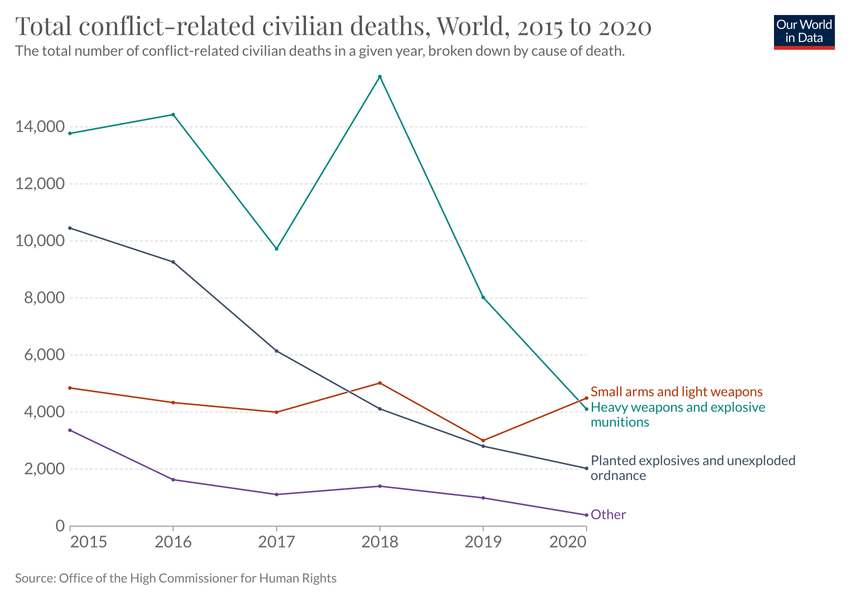
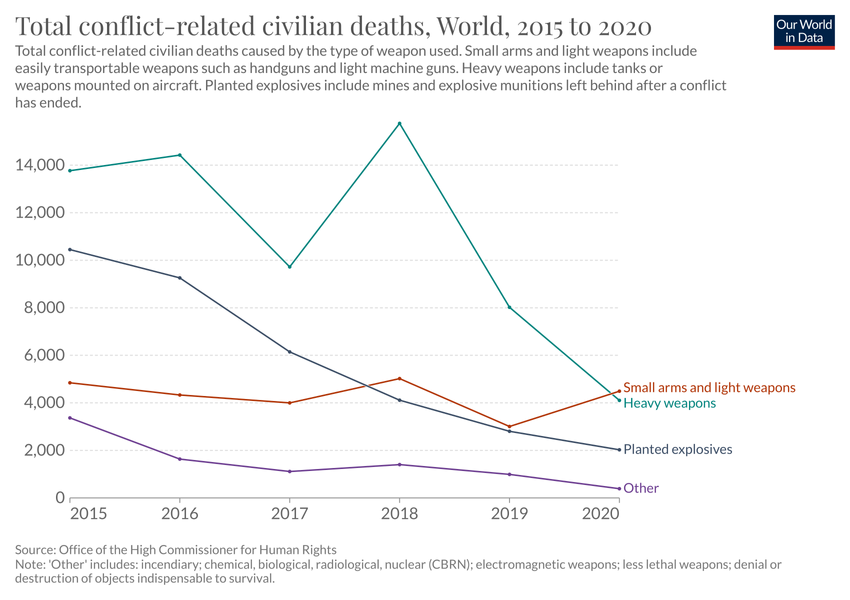
Deploy 2022-02-24T13:17:09.652Z Updating chart total-conflict-related-civilian-deaths

diff --git a/grapher/total-conflict-related-civilian-deaths.html b/grapher/total-conflict-related-civilian-deaths.html
@@ -1,6 +1,6 @@
-<!doctype html><html><head><meta name="viewport" content="width=device-width, initial-scale=1"/><title>Total conflict-related civilian deaths - Our World in Data</title><meta name="description" content="The total number of conflict-related civilian deaths in a given year, broken down by cause of death."/><link rel="canonical" href="https://ourworldindata.org/grapher/total-conflict-related-civilian-deaths"/><link rel="alternate" type="application/atom+xml" href="/atom.xml"/><link rel="apple-touch-icon" sizes="180x180" href="/apple-touch-icon.png"/><meta property="fb:app_id" content="1149943818390250"/><meta property="og:url" content="https://ourworldindata.org/grapher/total-conflict-related-civilian-deaths"/><meta property="og:title" content="Total conflict-related civilian deaths"/><meta property="og:description" content="The total number of conflict-related civilian deaths in a given year, broken down by cause of death."/><meta property="og:image" content="https://ourworldindata.org/default-grapher-thumbnail.png"/><meta property="og:site_name" content="Our World in Data"/><meta name="twitter:card" content="summary_large_image"/><meta name="twitter:site" content="@OurWorldInData"/><meta name="twitter:creator" content="@OurWorldInData"/><meta name="twitter:title" content="Total conflict-related civilian deaths"/><meta name="twitter:description" content="The total number of conflict-related civilian deaths in a given year, broken down by cause of death."/><meta name="twitter:image" content="https://ourworldindata.org/default-grapher-thumbnail.png"/><link href="https://fonts.googleapis.com/css?family=Lato:300,400,400i,700,700i|Playfair+Display:400,700&amp;display=swap" rel="stylesheet"/><link rel="stylesheet" href="https://ourworldindata.org/assets/commons.css"/><link rel="stylesheet" href="https://ourworldindata.org/assets/owid.css"/><meta property="og:image:width" content="1200"/><meta property="og:image:height" content="628"/><script>if (window != window.top) document.documentElement.classList.add('IsInIframe')</script><noscript><style>
+<!doctype html><html><head><meta name="viewport" content="width=device-width, initial-scale=1"/><title>Total conflict-related civilian deaths - Our World in Data</title><meta name="description" content="Total conflict-related civilian deaths caused by the type of weapon used. Small arms and light weapons include easily transportable weapons such as handguns and light machine guns. Heavy weapons include tanks or weapons mounted on aircraft. Planted explosives include mines and explosive munitions left behind after a conflict has ended."/><link rel="canonical" href="https://ourworldindata.org/grapher/total-conflict-related-civilian-deaths"/><link rel="alternate" type="application/atom+xml" href="/atom.xml"/><link rel="apple-touch-icon" sizes="180x180" href="/apple-touch-icon.png"/><meta property="fb:app_id" content="1149943818390250"/><meta property="og:url" content="https://ourworldindata.org/grapher/total-conflict-related-civilian-deaths"/><meta property="og:title" content="Total conflict-related civilian deaths"/><meta property="og:description" content="Total conflict-related civilian deaths caused by the type of weapon used. Small arms and light weapons include easily transportable weapons such as handguns and light machine guns. Heavy weapons include tanks or weapons mounted on aircraft. Planted explosives include mines and explosive munitions left behind after a conflict has ended."/><meta property="og:image" content="https://ourworldindata.org/default-grapher-thumbnail.png"/><meta property="og:site_name" content="Our World in Data"/><meta name="twitter:card" content="summary_large_image"/><meta name="twitter:site" content="@OurWorldInData"/><meta name="twitter:creator" content="@OurWorldInData"/><meta name="twitter:title" content="Total conflict-related civilian deaths"/><meta name="twitter:description" content="Total conflict-related civilian deaths caused by the type of weapon used. Small arms and light weapons include easily transportable weapons such as handguns and light machine guns. Heavy weapons include tanks or weapons mounted on aircraft. Planted explosives include mines and explosive munitions left behind after a conflict has ended."/><meta name="twitter:image" content="https://ourworldindata.org/default-grapher-thumbnail.png"/><link href="https://fonts.googleapis.com/css?family=Lato:300,400,400i,700,700i|Playfair+Display:400,700&amp;display=swap" rel="stylesheet"/><link rel="stylesheet" href="https://ourworldindata.org/assets/commons.css"/><link rel="stylesheet" href="https://ourworldindata.org/assets/owid.css"/><meta property="og:image:width" content="1200"/><meta property="og:image:height" content="628"/><script>if (window != window.top) document.documentElement.classList.add('IsInIframe')</script><noscript><style>
                     figure { display: none !important; }
-                </style></noscript><link rel="preload" href="/grapher/data/variables/312584[phone redacted][phone redacted][phone redacted].json?v=5" as="fetch" crossorigin="anonymous"/></head><body class="StandaloneGrapherOrExplorerPage"><header class="site-header"><div class="wrapper site-navigation-bar"><div class="site-logo"><a href="/">Our World<br/> in Data</a></div><nav class="site-navigation"><div class="topics-button-wrapper"><a href="/#entries" class="topics-button"><div class="label">Articles <br/><strong>by topic</strong></div><div class="icon"><svg width="12" height="6"><path d="M0,0 L12,0 L6,6 Z" fill="currentColor"></path></svg></div></a></div><div><div class="site-primary-navigation"><form class="HeaderSearch" action="/search" method="GET"><input type="search" name="q" placeholder="Search..."/><div class="icon"><svg aria-hidden="true" focusable="false" data-prefix="fas" data-icon="search" class="svg-inline--fa fa-search fa-w-16 " role="img" xmlns="http://www.w3.org/2000/svg" viewBox="[phone redacted]"><path fill="currentColor" d="M505 442.7L405.3 343c-[phone redacted]-7H372c27.[phone redacted]-128C416 [phone redacted] 0S0 93.1 0 208s93.[phone redacted] 208c48.[phone redacted]-44v16.3c0 [phone redacted] 17l99.7 99.7c9.[phone redacted] 0l28.3-28.3c9.[phone redacted]-34zM208 336c-[phone redacted]-[phone redacted] [phone redacted].[phone redacted] 128-128 128z"></path></svg></div></form><ul class="site-primary-links"><li><a href="/blog" data-track-note="header-navigation">Latest</a></li><li><a href="/about" data-track-note="header-navigation">About</a></li><li><a href="/donate" data-track-note="header-navigation">Donate</a></li></ul></div><div class="site-secondary-navigation"><ul class="site-secondary-links"><li><a href="/charts" data-track-note="header-navigation">All charts</a></li><li><a href="https://sdg-tracker.org" data-track-note="header-navigation">Sustainable Development Goals Tracker</a></li></ul></div></div></nav><div class="header-logos-wrapper"><a href="https://www.oxfordmartin.ox.ac.uk/global-development" class="oxford-logo"><img src="https://ourworldindata.org/oms-logo.svg" alt="Oxford Martin School logo"/></a><a href="https://global-change-data-lab.org/" class="gcdl-logo"><img src="https://ourworldindata.org/gcdl-logo.svg" alt="Global Change Data Lab logo"/></a></div><div class="mobile-site-navigation"><button data-track-note="mobile-search-button"><svg aria-hidden="true" focusable="false" data-prefix="fas" data-icon="search" class="svg-inline--fa fa-search fa-w-16 " role="img" xmlns="http://www.w3.org/2000/svg" viewBox="[phone redacted]"><path fill="currentColor" d="M505 442.7L405.3 343c-[phone redacted]-7H372c27.[phone redacted]-128C416 [phone redacted] 0S0 93.1 0 208s93.[phone redacted] 208c48.[phone redacted]-44v16.3c0 [phone redacted] 17l99.7 99.7c9.[phone redacted] 0l28.3-28.3c9.[phone redacted]-34zM208 336c-[phone redacted]-[phone redacted] [phone redacted].[phone redacted] 128-128 128z"></path></svg></button><button data-track-note="mobile-newsletter-button"><svg aria-hidden="true" focusable="false" data-prefix="fas" data-icon="envelope-open-text" class="svg-inline--fa fa-envelope-open-text fa-w-16 " role="img" xmlns="http://www.w3.org/2000/svg" viewBox="[phone redacted]"><path fill="currentColor" d="M176 216h160c8.[phone redacted]-16v-16c0-[phone redacted]-16H176c-[phone redacted] 16v16c0 [phone redacted] 16zm-16 80c0 [phone redacted] 16h160c8.[phone redacted]-16v-16c0-[phone redacted]-16H176c-[phone redacted] 16v16zm96 121.13c-[phone redacted].86-15.19L0 250.86V464c0 [phone redacted] 48h416c26.[phone redacted]-48V250.86L302.86 401.94c-[phone redacted].[phone redacted].19zm237.61-254.18c-[phone redacted]-29.61-22.81V96c0-[phone redacted]-48h-77.55c-[phone redacted].56C312.[phone redacted]-.35 256 0c-23.2-.[phone redacted] [phone redacted].04 6.56H96c-[phone redacted] 48v44.14c-[phone redacted]-29.61 22.81A47.[phone redacted].72v10.65l96 69.35V96h320v184.72l96-69.35v-10.65c0-[phone redacted]-37.77z"></path></svg></button><button data-track-note="mobile-hamburger-button"><svg aria-hidden="true" focusable="false" data-prefix="fas" data-icon="bars" class="svg-inline--fa fa-bars fa-w-14 " role="img" xmlns="http://www.w3.org/2000/svg" viewBox="[phone redacted]"><path fill="currentColor" d="M16 132h416c8.[phone redacted]-16V76c0-[phone redacted]-16H16C7.[phone redacted] 76v40c0 [phone redacted] 16zm0 160h416c8.[phone redacted]-16v-40c0-[phone redacted]-16H16c-[phone redacted] 16v40c0 [phone redacted] 16zm0 160h416c8.[phone redacted]-16v-40c0-[phone redacted]-16H16c-[phone redacted] 16v40c0 [phone redacted] 16z"></path></svg></button></div></div></header><div class="alert-banner"><div class="content"><div class="text"><strong>Updated daily</strong></div><a href="/covid-vaccinations" data-track-note="covid-banner-click">View our work on COVID-19 vaccinations</a></div></div><main><figure data-grapher-src="/grapher/total-conflict-related-civilian-deaths"><div class="loading-indicator"><span style="border-color:#333"></span></div></figure><noscript id="fallback"><img src="https://ourworldindata.org/grapher/exports/total-conflict-related-civilian-deaths.svg"/><p>Interactive visualization requires JavaScript</p></noscript></main><section class="donate-footer"><div class="wrapper"><div class="owid-row flex-align-center"><div class="owid-col owid-col--lg-3 owid-padding-bottom--sm-3"><p>Our World in Data is free and accessible for everyone.</p><p>Help us do this work by making a donation.</p></div><div class="owid-col owid-col--lg-1"><a href="/donate" class="owid-button donate-button" data-track-note="donate-footer"><span class="label">Donate now</span><span class="icon"><svg aria-hidden="true" focusable="false" data-prefix="fas" data-icon="angle-right" class="svg-inline--fa fa-angle-right fa-w-8 " role="img" xmlns="http://www.w3.org/2000/svg" viewBox="[phone redacted]"><path fill="currentColor" d="M224.3 273l-136 136c-[phone redacted] 0l-22.6-22.6c-[phone redacted].9l96.[phone redacted].4c-[phone redacted].9L54.3 103c9.[phone redacted] 0l136 136c9.[phone redacted] 34z"></path></svg></span></a></div></div></div></section><footer class="site-footer"><div class="wrapper"><div class="owid-row"><div class="owid-col owid-col--lg-1"><ul><li><a href="/about" data-track-note="footer-navigation">About</a></li><li><a href="/about#contact" data-track-note="footer-navigation">Contact</a></li><li><a href="/feedback" data-track-note="footer-navigation">Feedback</a></li><li><a href="/jobs" data-track-note="footer-navigation">Jobs</a></li><li><a href="/funding" data-track-note="footer-navigation">Funding</a></li><li><a href="/about/how-to-use-our-world-in-data" data-track-note="footer-navigation">How to use</a></li><li><a href="/donate" data-track-note="footer-navigation">Donate</a></li><li><a href="/privacy-policy" data-track-note="footer-navigation">Privacy policy</a></li></ul></div><div class="owid-col owid-col--lg-1"><ul><li><a href="/blog" data-track-note="footer-navigation">Latest publications</a></li><li><a href="/charts" data-track-note="footer-navigation">All charts</a></li></ul><ul><li><a href="https://twitter.com/OurWorldInData" data-track-note="footer-navigation">Twitter</a></li><li><a href="https://www.facebook.com/OurWorldinData" data-track-note="footer-navigation">Facebook</a></li><li><a href="https://github.com/owid" data-track-note="footer-navigation">GitHub</a></li><li><a href="/feed" data-track-note="footer-navigation">RSS Feed</a></li></ul></div><div class="owid-col owid-col--lg-1"><div class="logos"><a href="https://www.oxfordmartin.ox.ac.uk/research/programmes/global-development" class="partner-logo" data-track-note="footer-navigation"><img src="https://ourworldindata.org/oms-logo.svg" alt="Oxford Martin School logo" loading="lazy"/></a><a href="/owid-at-ycombinator" class="partner-logo" data-track-note="footer-navigation"><img src="https://ourworldindata.org/yc-logo.png" alt="Y Combinator logo" loading="lazy"/></a></div></div><div class="owid-col flex-2"><div class="legal"><p>License: All the material produced by Our World in Data, including interactive visualizations and code, are completely open access under the <a href="https://creativecommons.org/licenses/by/4.0/" target="_blank" rel="noopener noreferrer">Creative Commons BY license</a>. You have the permission to use, distribute, and reproduce these in any medium, provided the source and authors are credited. All other material, including data produced by third parties and made available by Our World in Data, is subject to the license terms from the original third-party authors.</p><p>Please consult our full <a href="/about#legal">legal disclaimer</a>.</p><p><a href="https://global-change-data-lab.org/" class="partner-logo gcdl-logo" data-track-note="footer-navigation"><img src="https://ourworldindata.org/gcdl-logo.svg" alt="Global Change Data Lab logo" loading="lazy"/></a>Our World In Data is a project of the <a href="https://global-change-data-lab.org/">Global Change Data Lab</a>, a registered charity in England and Wales (Charity Number [phone redacted]).</p></div></div></div></div><div class="site-tools"></div><script src="https://polyfill.io/v3/polyfill.min.js?features=es6,fetch,URL,IntersectionObserver,IntersectionObserverEntry"></script><script src="https://ourworldindata.org/assets/commons.js"></script><script src="https://ourworldindata.org/assets/vendors.js"></script><script src="https://ourworldindata.org/assets/owid.js"></script><script>window.runSiteFooterScripts()</script></footer><script>const jsonConfig = 
+                </style></noscript><link rel="preload" href="/grapher/data/variables/312584[phone redacted][phone redacted][phone redacted].json?v=6" as="fetch" crossorigin="anonymous"/></head><body class="StandaloneGrapherOrExplorerPage"><header class="site-header"><div class="wrapper site-navigation-bar"><div class="site-logo"><a href="/">Our World<br/> in Data</a></div><nav class="site-navigation"><div class="topics-button-wrapper"><a href="/#entries" class="topics-button"><div class="label">Articles <br/><strong>by topic</strong></div><div class="icon"><svg width="12" height="6"><path d="M0,0 L12,0 L6,6 Z" fill="currentColor"></path></svg></div></a></div><div><div class="site-primary-navigation"><form class="HeaderSearch" action="/search" method="GET"><input type="search" name="q" placeholder="Search..."/><div class="icon"><svg aria-hidden="true" focusable="false" data-prefix="fas" data-icon="search" class="svg-inline--fa fa-search fa-w-16 " role="img" xmlns="http://www.w3.org/2000/svg" viewBox="[phone redacted]"><path fill="currentColor" d="M505 442.7L405.3 343c-[phone redacted]-7H372c27.[phone redacted]-128C416 [phone redacted] 0S0 93.1 0 208s93.[phone redacted] 208c48.[phone redacted]-44v16.3c0 [phone redacted] 17l99.7 99.7c9.[phone redacted] 0l28.3-28.3c9.[phone redacted]-34zM208 336c-[phone redacted]-[phone redacted] [phone redacted].[phone redacted] 128-128 128z"></path></svg></div></form><ul class="site-primary-links"><li><a href="/blog" data-track-note="header-navigation">Latest</a></li><li><a href="/about" data-track-note="header-navigation">About</a></li><li><a href="/donate" data-track-note="header-navigation">Donate</a></li></ul></div><div class="site-secondary-navigation"><ul class="site-secondary-links"><li><a href="/charts" data-track-note="header-navigation">All charts</a></li><li><a href="https://sdg-tracker.org" data-track-note="header-navigation">Sustainable Development Goals Tracker</a></li></ul></div></div></nav><div class="header-logos-wrapper"><a href="https://www.oxfordmartin.ox.ac.uk/global-development" class="oxford-logo"><img src="https://ourworldindata.org/oms-logo.svg" alt="Oxford Martin School logo"/></a><a href="https://global-change-data-lab.org/" class="gcdl-logo"><img src="https://ourworldindata.org/gcdl-logo.svg" alt="Global Change Data Lab logo"/></a></div><div class="mobile-site-navigation"><button data-track-note="mobile-search-button"><svg aria-hidden="true" focusable="false" data-prefix="fas" data-icon="search" class="svg-inline--fa fa-search fa-w-16 " role="img" xmlns="http://www.w3.org/2000/svg" viewBox="[phone redacted]"><path fill="currentColor" d="M505 442.7L405.3 343c-[phone redacted]-7H372c27.[phone redacted]-128C416 [phone redacted] 0S0 93.1 0 208s93.[phone redacted] 208c48.[phone redacted]-44v16.3c0 [phone redacted] 17l99.7 99.7c9.[phone redacted] 0l28.3-28.3c9.[phone redacted]-34zM208 336c-[phone redacted]-[phone redacted] [phone redacted].[phone redacted] 128-128 128z"></path></svg></button><button data-track-note="mobile-newsletter-button"><svg aria-hidden="true" focusable="false" data-prefix="fas" data-icon="envelope-open-text" class="svg-inline--fa fa-envelope-open-text fa-w-16 " role="img" xmlns="http://www.w3.org/2000/svg" viewBox="[phone redacted]"><path fill="currentColor" d="M176 216h160c8.[phone redacted]-16v-16c0-[phone redacted]-16H176c-[phone redacted] 16v16c0 [phone redacted] 16zm-16 80c0 [phone redacted] 16h160c8.[phone redacted]-16v-16c0-[phone redacted]-16H176c-[phone redacted] 16v16zm96 121.13c-[phone redacted].86-15.19L0 250.86V464c0 [phone redacted] 48h416c26.[phone redacted]-48V250.86L302.86 401.94c-[phone redacted].[phone redacted].19zm237.61-254.18c-[phone redacted]-29.61-22.81V96c0-[phone redacted]-48h-77.55c-[phone redacted].56C312.[phone redacted]-.35 256 0c-23.2-.[phone redacted] [phone redacted].04 6.56H96c-[phone redacted] 48v44.14c-[phone redacted]-29.61 22.81A47.[phone redacted].72v10.65l96 69.35V96h320v184.72l96-69.35v-10.65c0-[phone redacted]-37.77z"></path></svg></button><button data-track-note="mobile-hamburger-button"><svg aria-hidden="true" focusable="false" data-prefix="fas" data-icon="bars" class="svg-inline--fa fa-bars fa-w-14 " role="img" xmlns="http://www.w3.org/2000/svg" viewBox="[phone redacted]"><path fill="currentColor" d="M16 132h416c8.[phone redacted]-16V76c0-[phone redacted]-16H16C7.[phone redacted] 76v40c0 [phone redacted] 16zm0 160h416c8.[phone redacted]-16v-40c0-[phone redacted]-16H16c-[phone redacted] 16v40c0 [phone redacted] 16zm0 160h416c8.[phone redacted]-16v-40c0-[phone redacted]-16H16c-[phone redacted] 16v40c0 [phone redacted] 16z"></path></svg></button></div></div></header><div class="alert-banner"><div class="content"><div class="text"><strong>Updated daily</strong></div><a href="/covid-vaccinations" data-track-note="covid-banner-click">View our work on COVID-19 vaccinations</a></div></div><main><figure data-grapher-src="/grapher/total-conflict-related-civilian-deaths"><div class="loading-indicator"><span style="border-color:#333"></span></div></figure><noscript id="fallback"><img src="https://ourworldindata.org/grapher/exports/total-conflict-related-civilian-deaths.svg"/><p>Interactive visualization requires JavaScript</p></noscript></main><section class="donate-footer"><div class="wrapper"><div class="owid-row flex-align-center"><div class="owid-col owid-col--lg-3 owid-padding-bottom--sm-3"><p>Our World in Data is free and accessible for everyone.</p><p>Help us do this work by making a donation.</p></div><div class="owid-col owid-col--lg-1"><a href="/donate" class="owid-button donate-button" data-track-note="donate-footer"><span class="label">Donate now</span><span class="icon"><svg aria-hidden="true" focusable="false" data-prefix="fas" data-icon="angle-right" class="svg-inline--fa fa-angle-right fa-w-8 " role="img" xmlns="http://www.w3.org/2000/svg" viewBox="[phone redacted]"><path fill="currentColor" d="M224.3 273l-136 136c-[phone redacted] 0l-22.6-22.6c-[phone redacted].9l96.[phone redacted].4c-[phone redacted].9L54.3 103c9.[phone redacted] 0l136 136c9.[phone redacted] 34z"></path></svg></span></a></div></div></div></section><footer class="site-footer"><div class="wrapper"><div class="owid-row"><div class="owid-col owid-col--lg-1"><ul><li><a href="/about" data-track-note="footer-navigation">About</a></li><li><a href="/about#contact" data-track-note="footer-navigation">Contact</a></li><li><a href="/feedback" data-track-note="footer-navigation">Feedback</a></li><li><a href="/jobs" data-track-note="footer-navigation">Jobs</a></li><li><a href="/funding" data-track-note="footer-navigation">Funding</a></li><li><a href="/about/how-to-use-our-world-in-data" data-track-note="footer-navigation">How to use</a></li><li><a href="/donate" data-track-note="footer-navigation">Donate</a></li><li><a href="/privacy-policy" data-track-note="footer-navigation">Privacy policy</a></li></ul></div><div class="owid-col owid-col--lg-1"><ul><li><a href="/blog" data-track-note="footer-navigation">Latest publications</a></li><li><a href="/charts" data-track-note="footer-navigation">All charts</a></li></ul><ul><li><a href="https://twitter.com/OurWorldInData" data-track-note="footer-navigation">Twitter</a></li><li><a href="https://www.facebook.com/OurWorldinData" data-track-note="footer-navigation">Facebook</a></li><li><a href="https://github.com/owid" data-track-note="footer-navigation">GitHub</a></li><li><a href="/feed" data-track-note="footer-navigation">RSS Feed</a></li></ul></div><div class="owid-col owid-col--lg-1"><div class="logos"><a href="https://www.oxfordmartin.ox.ac.uk/research/programmes/global-development" class="partner-logo" data-track-note="footer-navigation"><img src="https://ourworldindata.org/oms-logo.svg" alt="Oxford Martin School logo" loading="lazy"/></a><a href="/owid-at-ycombinator" class="partner-logo" data-track-note="footer-navigation"><img src="https://ourworldindata.org/yc-logo.png" alt="Y Combinator logo" loading="lazy"/></a></div></div><div class="owid-col flex-2"><div class="legal"><p>License: All the material produced by Our World in Data, including interactive visualizations and code, are completely open access under the <a href="https://creativecommons.org/licenses/by/4.0/" target="_blank" rel="noopener noreferrer">Creative Commons BY license</a>. You have the permission to use, distribute, and reproduce these in any medium, provided the source and authors are credited. All other material, including data produced by third parties and made available by Our World in Data, is subject to the license terms from the original third-party authors.</p><p>Please consult our full <a href="/about#legal">legal disclaimer</a>.</p><p><a href="https://global-change-data-lab.org/" class="partner-logo gcdl-logo" data-track-note="footer-navigation"><img src="https://ourworldindata.org/gcdl-logo.svg" alt="Global Change Data Lab logo" loading="lazy"/></a>Our World In Data is a project of the <a href="https://global-change-data-lab.org/">Global Change Data Lab</a>, a registered charity in England and Wales (Charity Number [phone redacted]).</p></div></div></div></div><div class="site-tools"></div><script src="https://polyfill.io/v3/polyfill.min.js?features=es6,fetch,URL,IntersectionObserver,IntersectionObserverEntry"></script><script src="https://ourworldindata.org/assets/commons.js"></script><script src="https://ourworldindata.org/assets/vendors.js"></script><script src="https://ourworldindata.org/assets/owid.js"></script><script>window.runSiteFooterScripts()</script></footer><script>const jsonConfig = 
 //EMBEDDED_JSON
 {
   "id": 5270,
@@ -12,17 +12,21 @@
       "World"
     ]
   },
+  "note": "'Other' includes: incendiary; chemical, biological, radiological, nuclear (CBRN); electromagnetic weapons; less lethal weapons; denial or destruction of objects indispensable to survival.",
   "slug": "total-conflict-related-civilian-deaths",
   "title": "Total conflict-related civilian deaths",
   "yAxis": {
     "min": 0
   },
-  "version": 5,
-  "subtitle": "The total number of conflict-related civilian deaths in a given year, broken down by cause of death.",
+  "version": 6,
+  "subtitle": "Total conflict-related civilian deaths caused by the type of weapon used. Small arms and light weapons include easily transportable weapons such as handguns and light machine guns. Heavy weapons include tanks or weapons mounted on aircraft. Planted explosives include mines and explosive munitions left behind after a conflict has ended.",
+  "colorScale": {
+    "baseColorScheme": "Set1"
+  },
   "dimensions": [
     {
       "display": {
-        "name": "Planted explosives and unexploded ordnance",
+        "name": "Planted explosives",
         "unit": "deaths",
         "includeInTable": true,
         "numDecimalPlaces": 0
@@ -42,7 +46,7 @@
     },
     {
       "display": {
-        "name": "Heavy weapons and explosive munitions",
+        "name": "Heavy weapons",
         "unit": "deaths",
         "includeInTable": true,
         "numDecimalPlaces": 0
@@ -64,6 +68,7 @@
   "isPublished": true,
   "selectedData": [],
   "addCountryMode": "change-country",
+  "baseColorScheme": "owid-distinct",
   "selectedEntityNames": [
     "World"
   ]